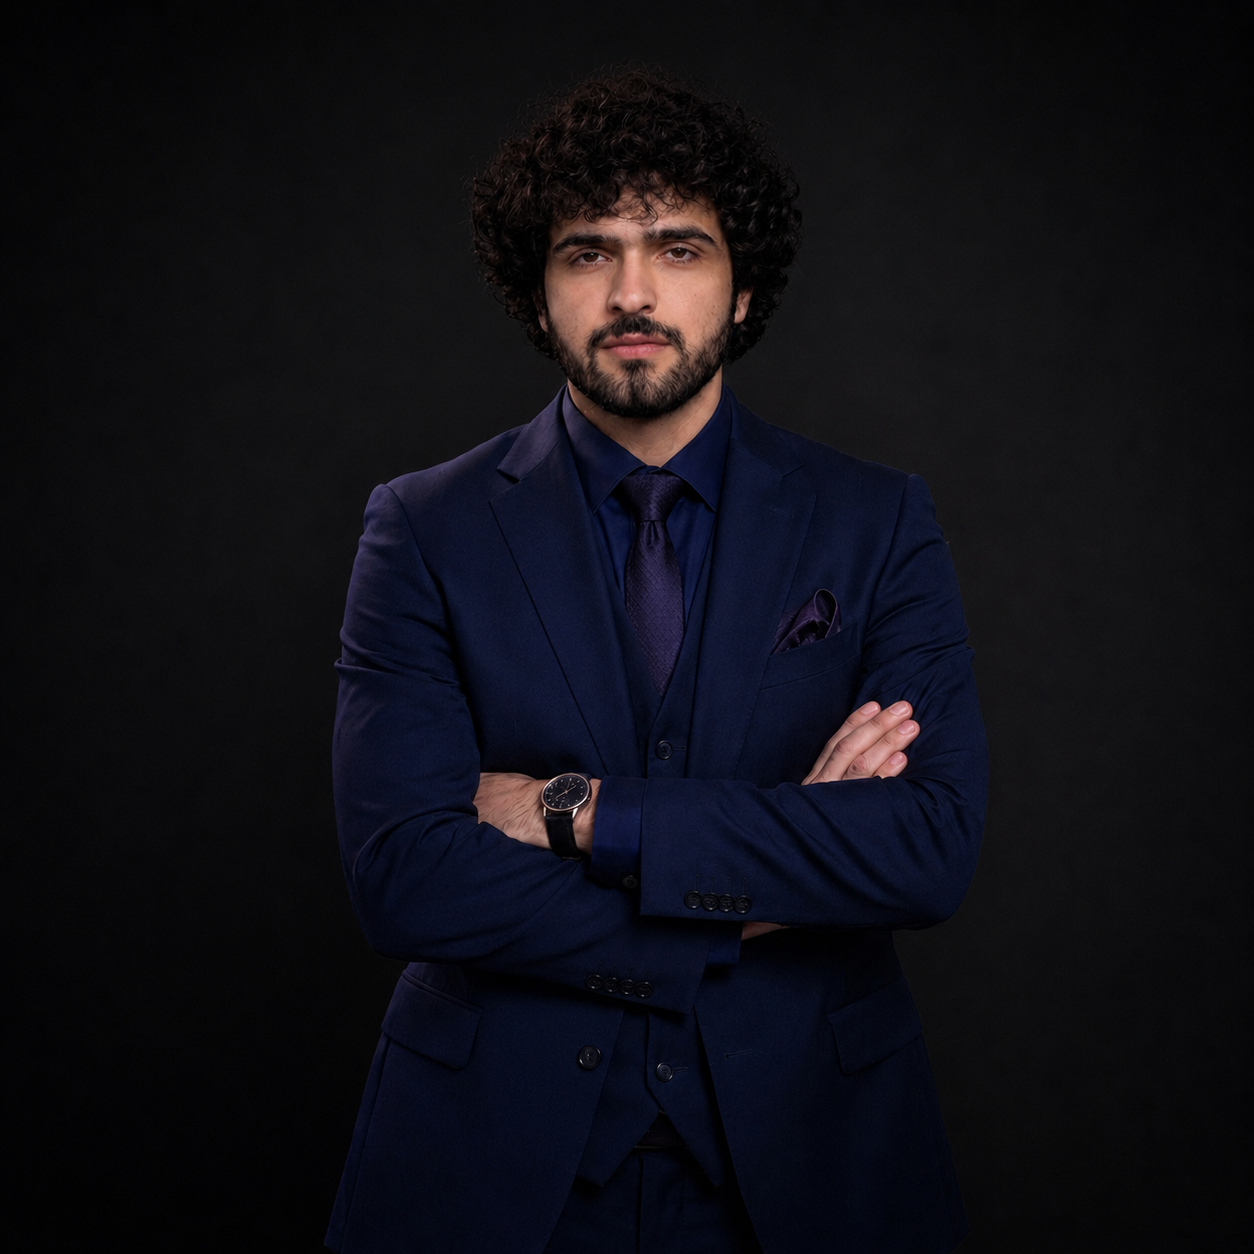
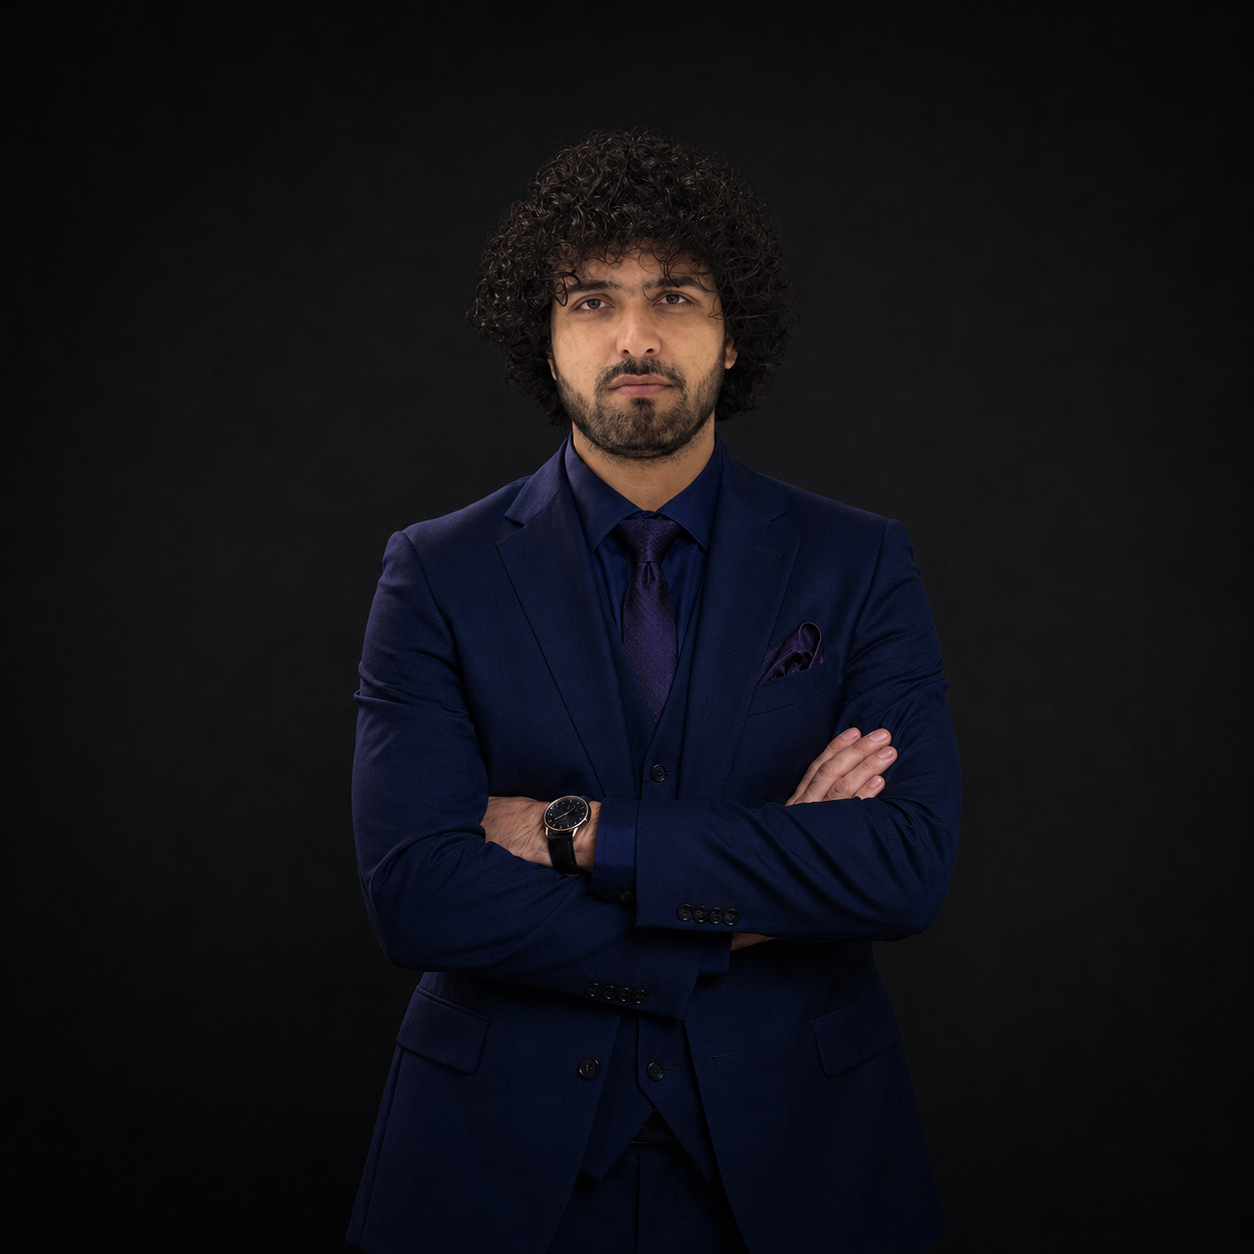
dp changed and ulesee changes

diff --git a/css/style.css b/css/style.css
@@ -1736,6 +1736,39 @@ main {
     grid-template-columns: 1fr;
   }
 
+  #researchGrid {
+    grid-template-columns: repeat(2, minmax(0, 1fr));
+    gap: 12px;
+  }
+
+  #research .feature-card {
+    padding: 12px !important;
+    min-height: 136px !important;
+    gap: 10px !important;
+  }
+
+  #research .feature-icon {
+    width: 28px !important;
+    height: 28px !important;
+    margin-bottom: 4px !important;
+  }
+
+  #research .feature-card h3 {
+    font-size: 11px !important;
+    line-height: 1.2 !important;
+    min-height: 2.4em !important;
+    overflow: hidden !important;
+  }
+
+  #research .feature-card p {
+    display: none !important;
+  }
+
+  #researchStatement {
+    margin-top: 12px;
+    font-size: 14px;
+  }
+
   .project-card.featured {
     grid-column: span 1;
   }